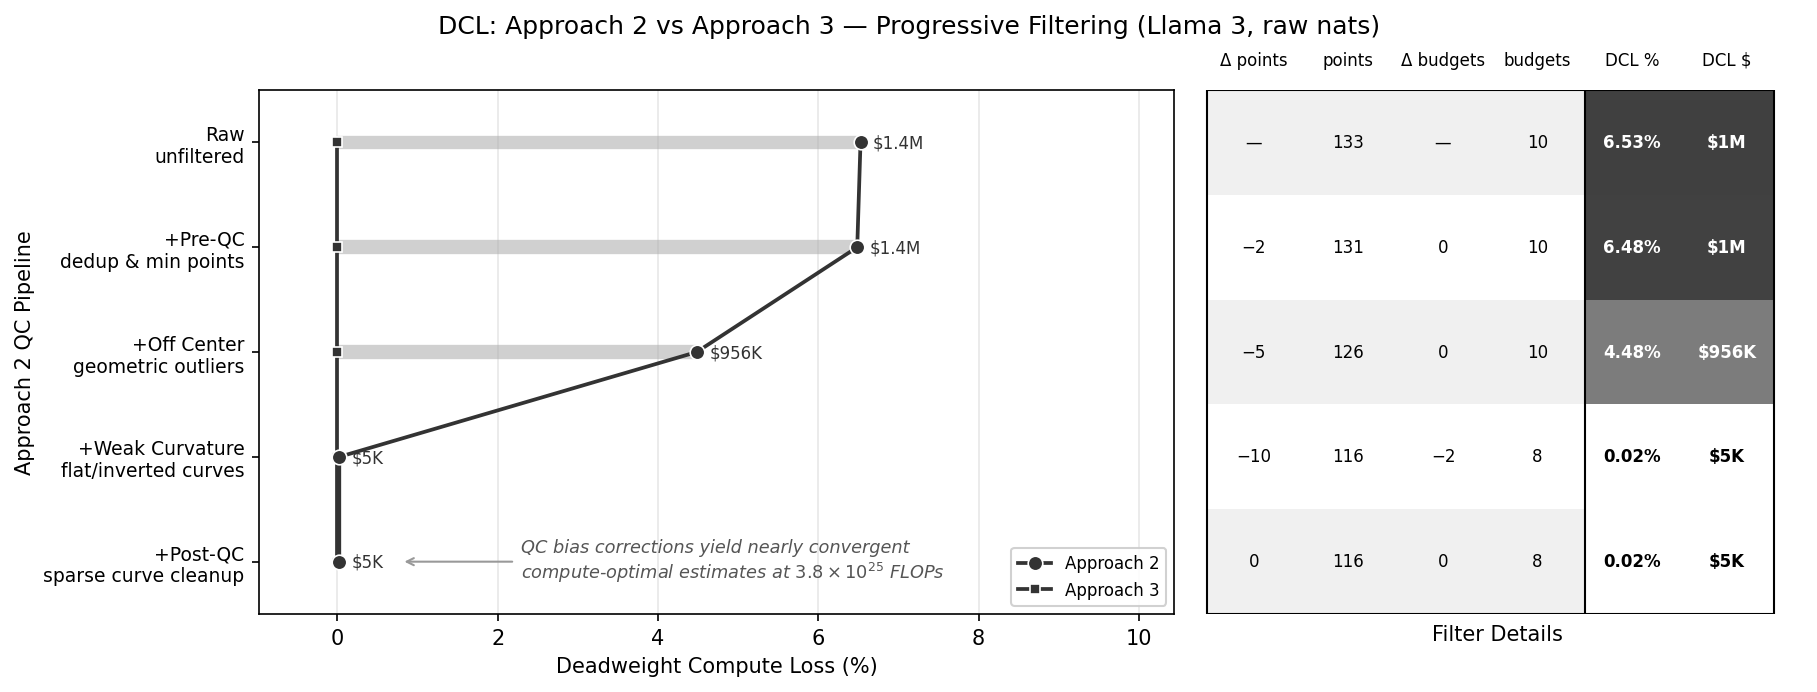
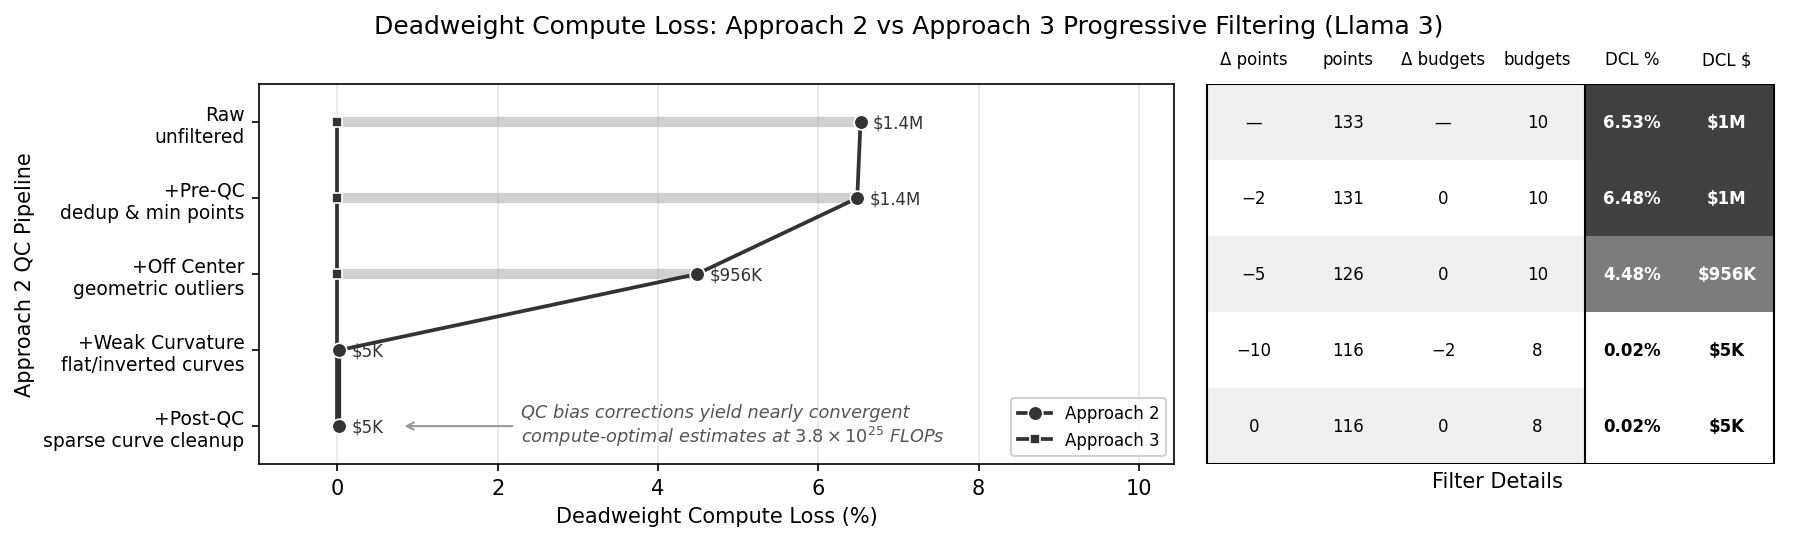
feat: update progressive filter titles and reduce figure height
- Use "Deadweight Compute Loss:" prefix consistent with DCL summary figure
- Include model name (Llama 3), remove "raw nats" from titles
- Reduce figure height for tighter layout

diff --git a/src/scaling_law_analysis/experiments/exp11_cost_estimates.py b/src/scaling_law_analysis/experiments/exp11_cost_estimates.py
@@ -291,7 +291,7 @@ def plot_progressive_filter(
     dcl_dollars = [_flops_to_dollars(r.dcl_flops) for r in results]
     dcl_pcts = [r.dcl_flops / eval_budget * 100 for r in results]
 
-    fig_height = max(0.5 * n_rows + 1.5, 4.5)
+    fig_height = max(0.45 * n_rows + 1.2, 3.5)
     fig, (ax_bar, ax_tbl) = plt.subplots(
         1,
         2,
@@ -1159,7 +1159,7 @@ def main() -> None:
     plot_progressive_filter(
         a3_results,
         output_dir / "progressive_filter_a3.png",
-        "DCL: Approach 2 vs Approach 3 \u2014 Progressive Filtering (Llama 3, raw nats)",
+        "Deadweight Compute Loss: Approach 2 vs Approach 3 Progressive Filtering (Llama 3)",
         LLAMA3_405B_FLOPS,
     )
 
@@ -1173,7 +1173,7 @@ def main() -> None:
     plot_progressive_filter(
         vpnls_results,
         output_dir / "progressive_filter_vpnls.png",
-        "DCL: Approach 2 vs VPNLS — Progressive Filtering (Llama 3, raw nats)",
+        "Deadweight Compute Loss: Approach 2 vs VPNLS Progressive Filtering (Llama 3)",
         LLAMA3_405B_FLOPS,
     )
 
